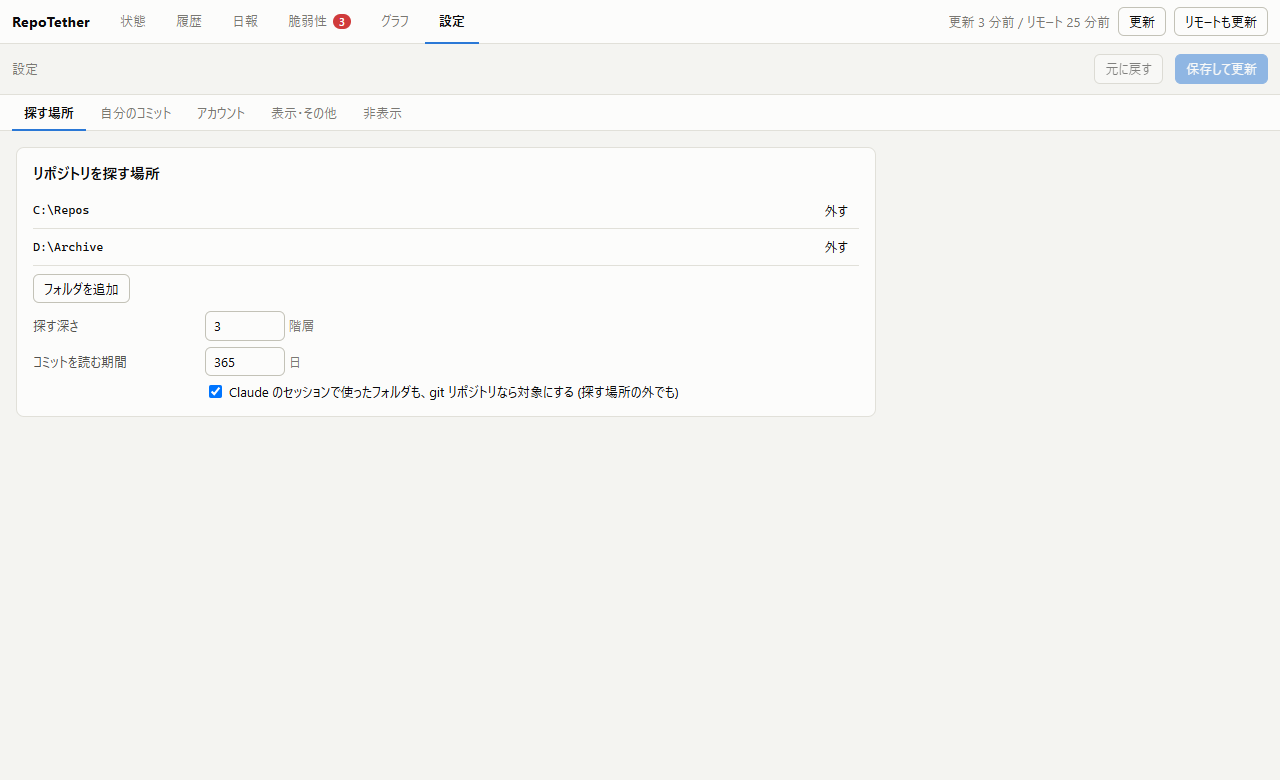
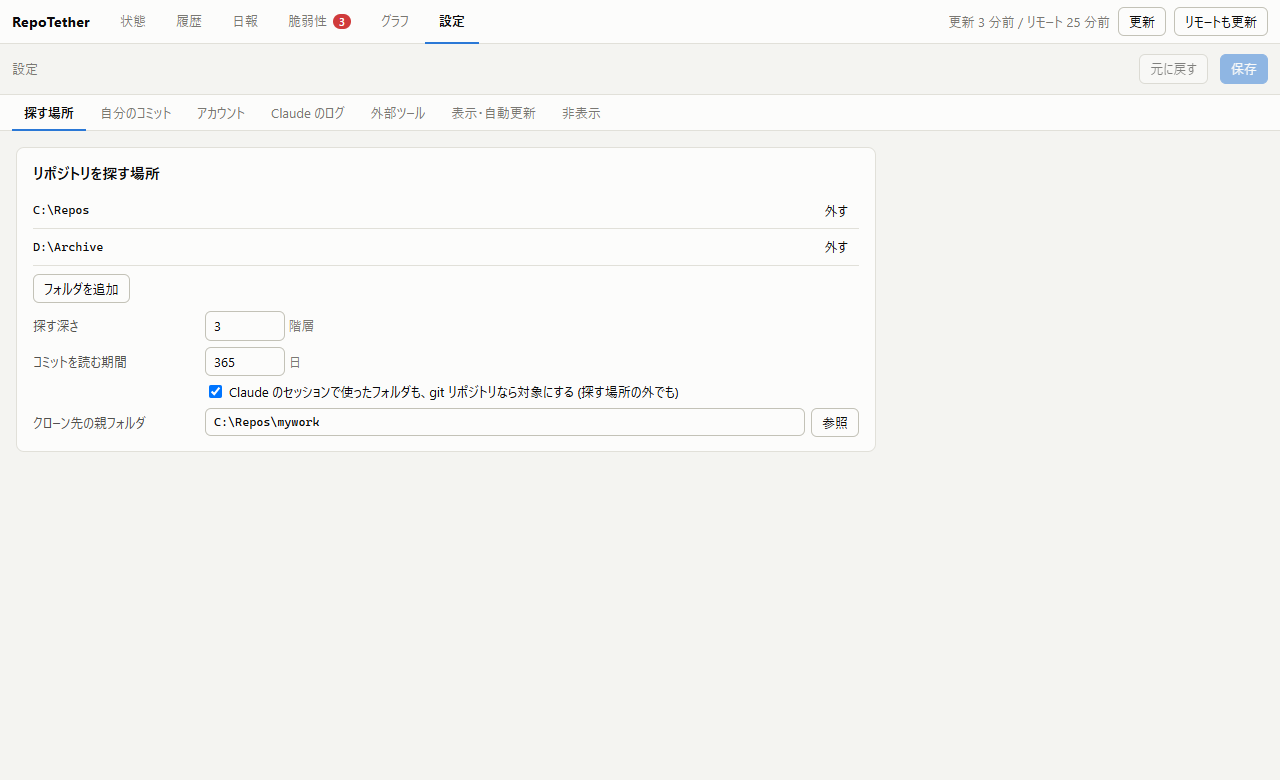
feat: 設定のタブを分け、保存で読み直すのを要るときだけにする
- 「表示・その他」を「Claude のログ」「外部ツール」「表示・自動更新」に分ける。
  クローン先の親フォルダは「探す場所」へ移す
- 保存のあとで読み直すのは、探す場所・期間・Claude のログの場所・アカウントを
  変えたときだけ。範囲は自動更新と同じ (期間を延ばしたときはすべて)。
  読み直しは待たずに保存を終える
- マニュアルと画像を合わせる

diff --git a/src/lib/components/SettingsView.svelte b/src/lib/components/SettingsView.svelte
@@ -8,7 +8,9 @@
   import {
     app,
     applyTheme,
+    autoScope,
     errorText,
+    loadVulns,
     prefs,
     refresh,
     savePrefs,
@@ -64,6 +66,10 @@
   }
 
   const configDirty = $derived(JSON.stringify(draft) !== JSON.stringify(app.config));
+  const differs = (...keys: (keyof Config)[]) => keys.some((k) => JSON.stringify(draft[k]) !== JSON.stringify(app.config![k]));
+  // 読み直すのは、取り込みの結果が変わる項目を変えたときだけ (メールアドレス・外部ツール・テーマなどでは読み直さない)
+  const accountsChanged = $derived(differs("accounts"));
+  const localChanged = $derived(differs("roots", "scanDepth", "includeSessionFolders", "claudeDir", "historyDays"));
 
   // 画面の好み (この PC だけ) の下書き。設定と同じく、保存するまで反映しない
   const PREF_KEYS = [
@@ -84,6 +90,10 @@
   /** 設定ファイル以外 (画面の好み・Claude Code の保存期間) に、保存していない変更があるか */
   function extraDirty() {
     return prefsDirty || retentionChanged;
+  }
+  /** retentionChanged は下で決まるので、タブの印からは関数を通して読む */
+  function retentionDirty() {
+    return retentionChanged;
   }
   const dirty = $derived(configDirty || extraDirty());
   const candidates = $derived(
@@ -169,9 +179,14 @@
     }
     saving = true;
     try {
-      // 読み直すのは設定ファイルの中身を変えたときだけ (テーマなどを変えただけなら読み直さない)
+      const old = app.config!;
       const changed = configDirty;
-      const accountsChanged = JSON.stringify(draft.accounts) !== JSON.stringify(app.config?.accounts);
+      // 保存のあとで下書きを作り直すので、何が変わったかは先に見ておく
+      const [remote, reread] = [accountsChanged, localChanged || accountsChanged];
+      // 履歴の期間を延ばしたときだけ、すべてのリポジトリからコミットを読み直す。
+      // ほかは自動更新と同じ範囲で足りる (新しく見つかったリポジトリは範囲に関係なく読む)
+      const longer = draft.historyDays > old.historyDays;
+      const vulnsChanged = differs("lockwatchPath", "hidden");
       if (changed) await updateConfig(structuredClone($state.snapshot(draft)));
       if (retentionChanged) retention = await api.setClaudeRetention(chosenDays);
       if (prefsDirty) {
@@ -182,7 +197,10 @@
       // 入力したトークンは保存後に消えるので、保存後の設定から下書きを作り直す
       revert();
       toast("保存しました");
-      if (changed) await refresh(accountsChanged);
+      // 読み直しは待たない (進み具合は上の帯に出る)。保存はここで終わり
+      if (reread) void refresh(remote, longer ? { kind: "all" } : autoScope());
+      // 読み直さないときも、LockWatch の対象 (targets.json) と結果は今の設定にそろえる
+      else if (vulnsChanged) void loadVulns();
     } catch (e) {
       toast(errorText(e));
     } finally {
@@ -198,7 +216,7 @@
   }
 
   // ---- タブ ----
-  type SettingsTab = "roots" | "authors" | "accounts" | "other" | "hidden" | "errors";
+  type SettingsTab = "roots" | "authors" | "accounts" | "claude" | "tools" | "display" | "hidden" | "errors";
   const saved = $derived(app.config!);
   const same = (a: unknown, b: unknown) => JSON.stringify(a) === JSON.stringify(b);
   const tabs = $derived(
@@ -208,22 +226,19 @@
           id: "roots",
           label: "探す場所",
           dirty: !same(
-            [draft.roots, draft.scanDepth, draft.historyDays, draft.includeSessionFolders],
-            [saved.roots, saved.scanDepth, saved.historyDays, saved.includeSessionFolders],
+            [draft.roots, draft.scanDepth, draft.historyDays, draft.includeSessionFolders, draft.cloneRoot],
+            [saved.roots, saved.scanDepth, saved.historyDays, saved.includeSessionFolders, saved.cloneRoot],
           ),
         },
         { id: "authors", label: "自分のコミット", dirty: !same(draft.authorEmails, saved.authorEmails) },
         { id: "accounts", label: "アカウント", dirty: !same(draft.accounts, saved.accounts) },
         {
-          id: "other",
-          label: "表示・その他",
-          dirty:
-            extraDirty() ||
-            !same(
-              [draft.cloneRoot, draft.claudeDir, draft.sessionvaultPath, draft.externalTools],
-              [saved.cloneRoot, saved.claudeDir, saved.sessionvaultPath, saved.externalTools],
-            ),
+          id: "claude",
+          label: "Claude のログ",
+          dirty: retentionDirty() ||!same([draft.claudeDir, draft.sessionvaultPath], [saved.claudeDir, saved.sessionvaultPath]),
         },
+        { id: "tools", label: "外部ツール", dirty: !same(draft.externalTools, saved.externalTools) },
+        { id: "display", label: "表示・自動更新", dirty: prefsDirty },
         { id: "hidden", label: "非表示", count: draft.hidden.length, dirty: !same(draft.hidden, saved.hidden) },
         { id: "errors", label: "問題", count: app.snapshot?.errors.length ?? 0, dirty: false },
       ] as { id: SettingsTab; label: string; count?: number; dirty: boolean }[]
@@ -291,7 +306,7 @@
     <span class="spacer"></span>
     <button onclick={revert} disabled={!dirty || saving}>元に戻す</button>
     <button class="primary" onclick={save} disabled={!dirty || saving}>
-      {saving ? "保存しています…" : configDirty || !dirty ? "保存して更新" : "保存"}
+      {saving ? "保存しています…" : localChanged || accountsChanged ? "保存して更新" : "保存"}
     </button>
   </div>
 
@@ -330,6 +345,11 @@
           <input type="checkbox" bind:checked={draft.includeSessionFolders} />
           Claude のセッションで使ったフォルダも、git リポジトリなら対象にする (探す場所の外でも)
         </label>
+        <label for="clone-root">クローン先の親フォルダ</label>
+        <div class="inline">
+          <input id="clone-root" type="text" class="mono grow" bind:value={draft.cloneRoot} placeholder="空なら探す場所の 1 つ目" />
+          <button onclick={pickCloneRoot}>参照</button>
+        </div>
       </div>
     </section>
     {/if}
@@ -488,15 +508,10 @@
     </section>
     {/if}
 
-    {#if tab === "other"}
+    {#if tab === "claude"}
     <section class="panel card">
-      <h2>その他</h2>
+      <h2>Claude のログとバックアップ</h2>
       <div class="grid">
-        <label for="clone-root">クローン先の親フォルダ</label>
-        <div class="inline">
-          <input id="clone-root" type="text" class="mono grow" bind:value={draft.cloneRoot} placeholder="空なら探す場所の 1 つ目" />
-          <button onclick={pickCloneRoot}>参照</button>
-        </div>
         <label for="claude-dir">Claude のログの場所</label>
         <input id="claude-dir" type="text" class="mono" bind:value={draft.claudeDir} placeholder="空なら %USERPROFILE%\.claude\projects" />
         <label for="sessionvault-path">SessionVault の場所</label>
@@ -512,7 +527,9 @@
         (Python 3.10 以上が要ります)。
       </p>
     </section>
+    {/if}
 
+    {#if tab === "tools"}
     <section class="panel card">
       <h2>外部ツール</h2>
       <p class="note">
@@ -539,7 +556,9 @@
       {/each}
       <button onclick={addTool}>ツールを追加</button>
     </section>
+    {/if}
 
+    {#if tab === "claude"}
     <section class="panel card">
       <h2>Claude Code のログの保存期間</h2>
       <p class="note">
@@ -573,9 +592,11 @@
         <p class="muted">読み込んでいます…</p>
       {/if}
     </section>
+    {/if}
 
+    {#if tab === "display"}
     <section class="panel card">
-      <h2>表示 <span class="muted small">(この PC だけ)</span></h2>
+      <h2>表示と自動更新 <span class="muted small">(この PC だけ)</span></h2>
       <div class="inline">
         <span class="muted">テーマ</span>
         <div class="segmented" role="group" aria-label="テーマ">

diff --git a/src/lib/store.svelte.ts b/src/lib/store.svelte.ts
@@ -63,7 +63,7 @@ export const prefs = $state({
   /** 一覧の密度: 標準 / コンパクト (行を詰め、Claude の一行要約を省く) */
   density: "normal" as "normal" | "compact",
   /** 設定で最後に開いたタブ */
-  settingsTab: "roots" as "roots" | "authors" | "accounts" | "other" | "hidden" | "errors",
+  settingsTab: "roots" as "roots" | "authors" | "accounts" | "claude" | "tools" | "display" | "hidden" | "errors",
   /** 脆弱性で隠すもの (深刻度 low など、知らせの種類 unmaintained など)。一覧の印にも効く */
   vulnHide: [] as string[],
 });
